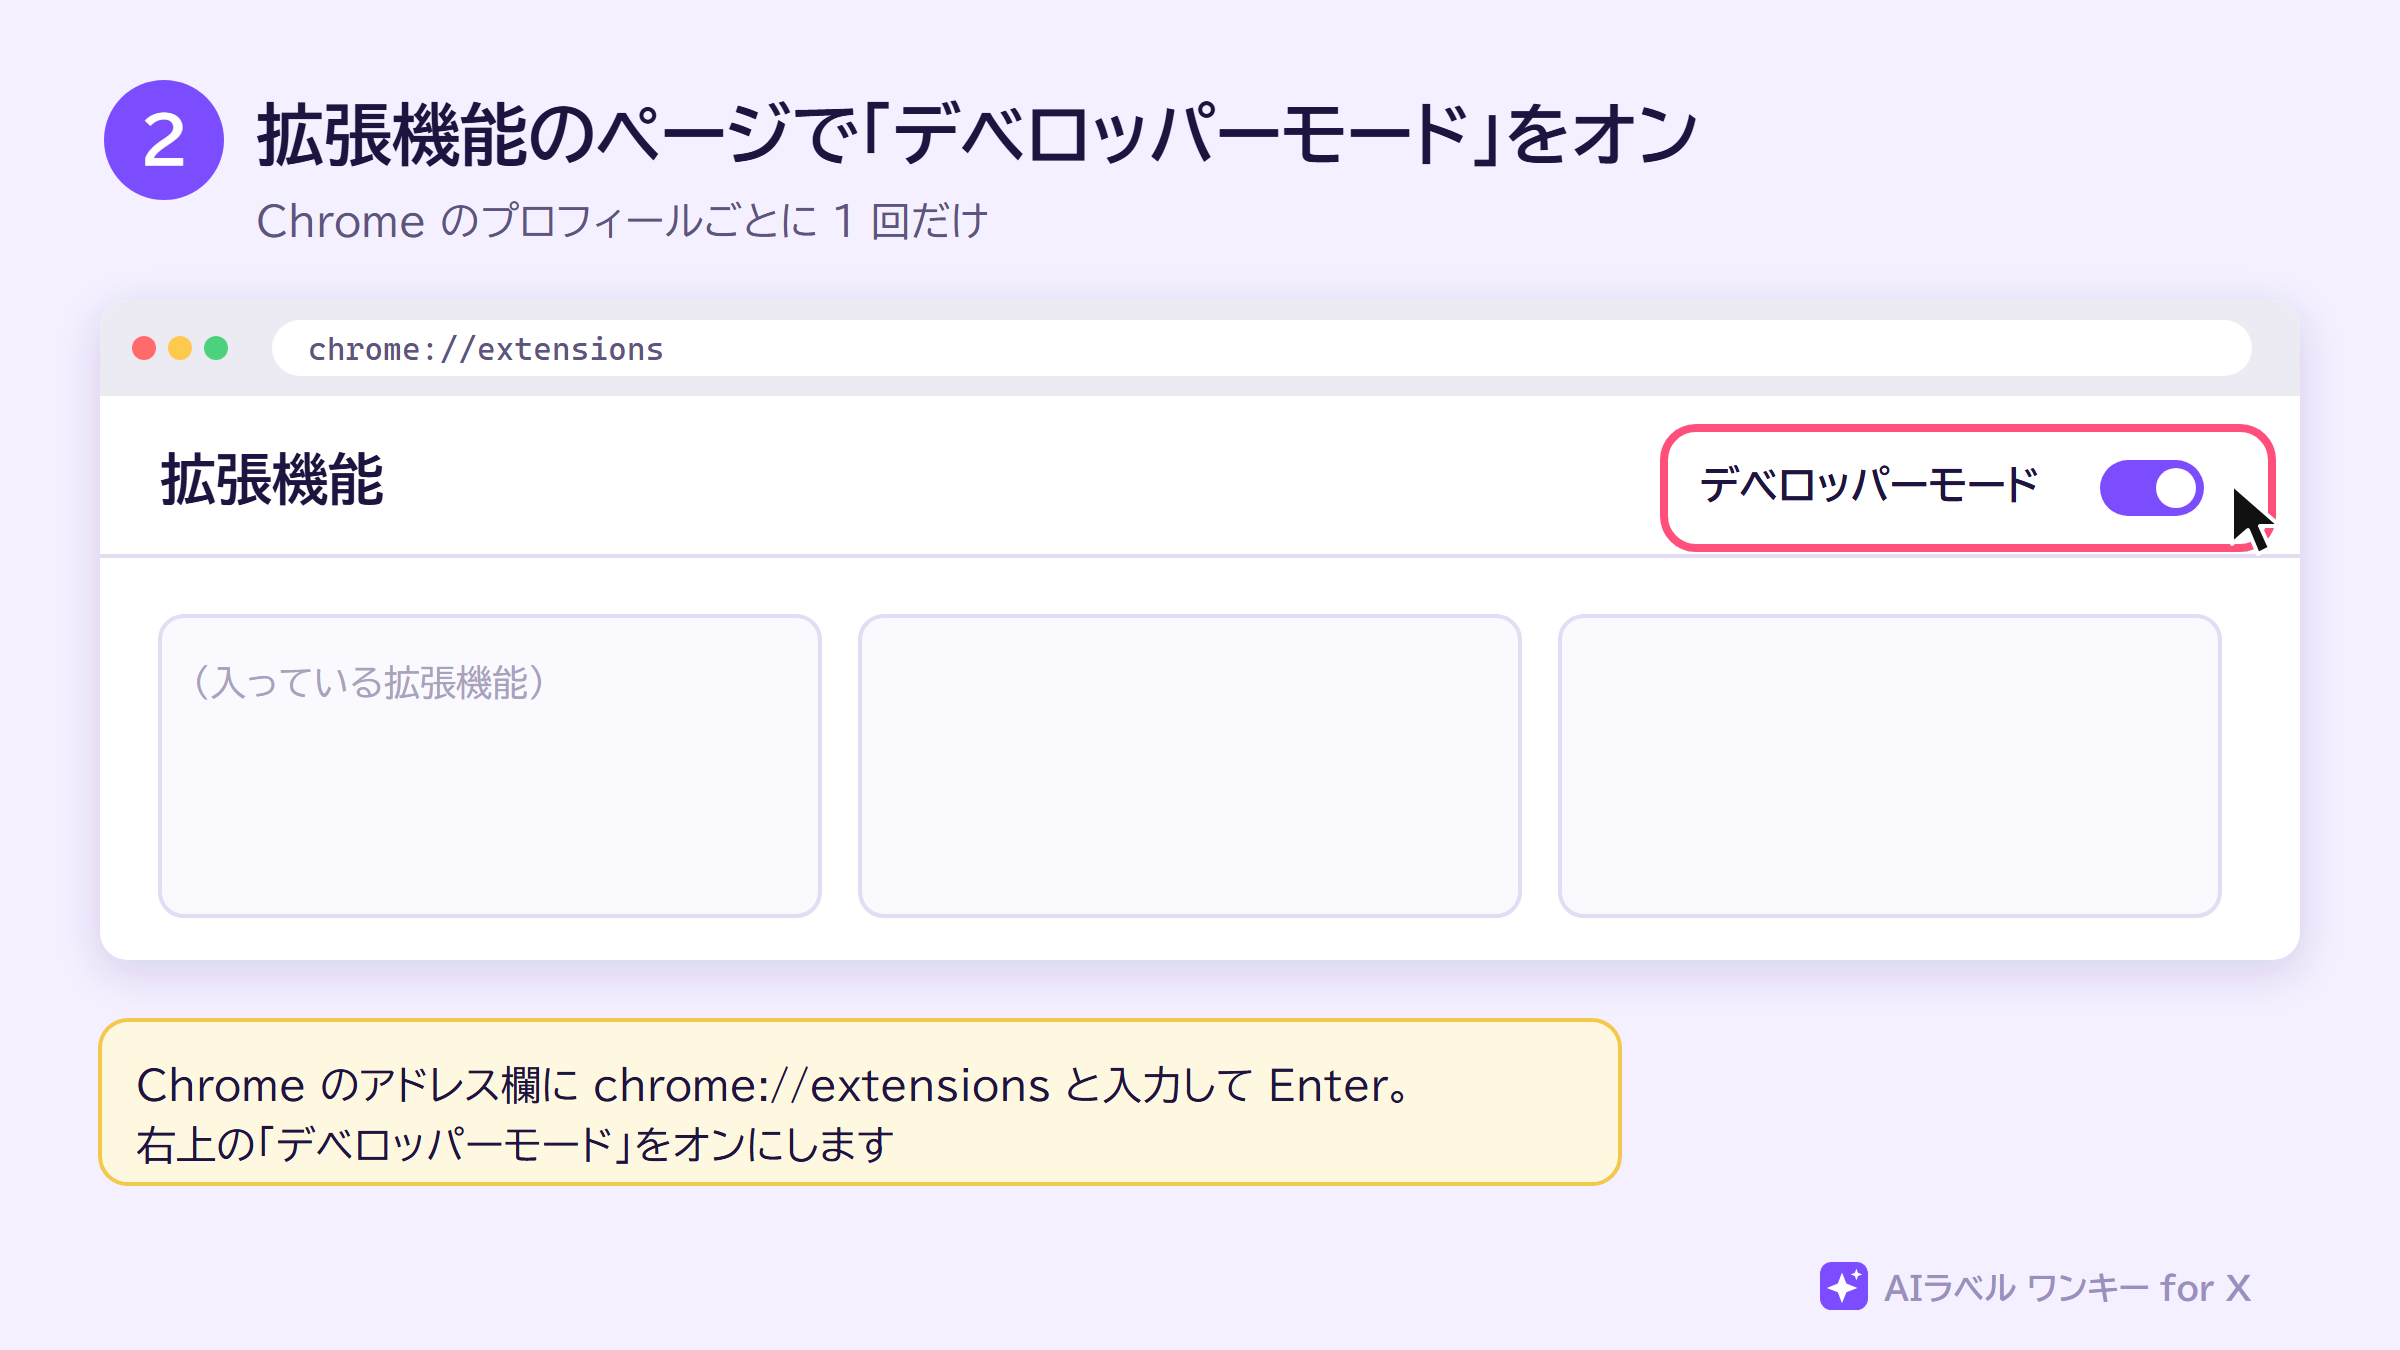
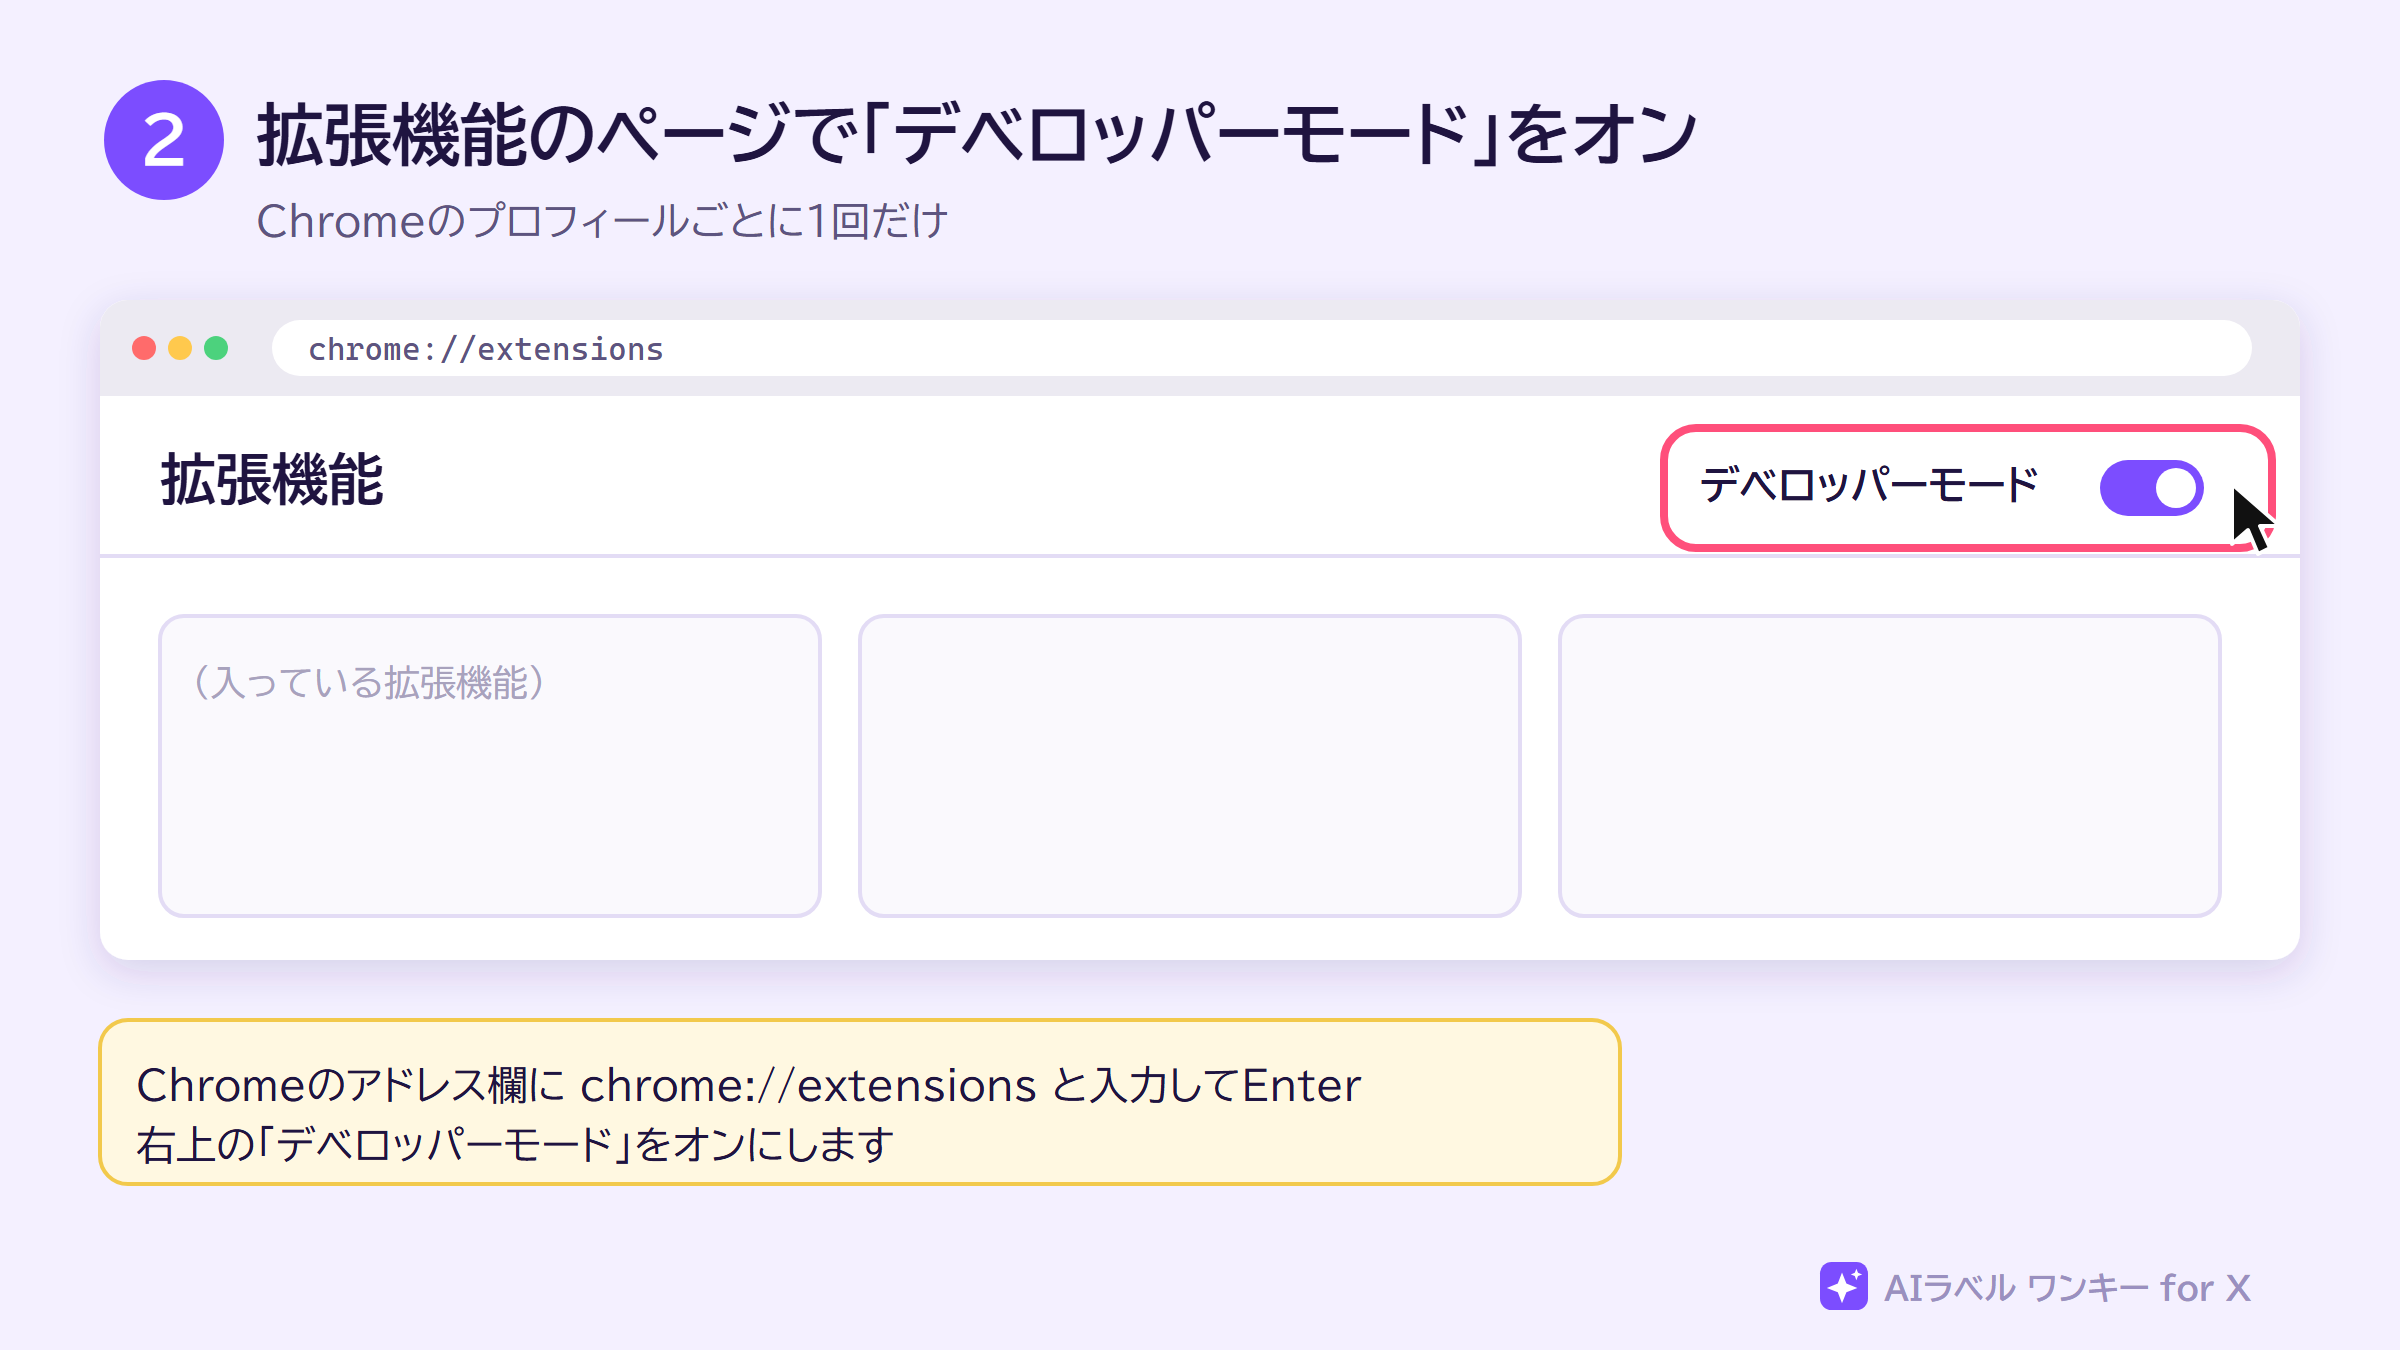
説明書のイラストの文から不自然な読点と余計な空きを除く

Changed region(s): [[0.125, 0.7778, 0.5625, 0.84], [0.1875, 0.1556, 0.4062, 0.1867]]

diff --git a/scripts/make_illustrations.py b/scripts/make_illustrations.py
@@ -175,7 +175,7 @@ def img_hero():
     # 左：いままで
     left = [rect(50, 150, 470, 440, r=22, extra='filter="url(#sh)"'),
             t(80, 200, "いままで", 26, SUB, 700),
-            t(80, 236, "毎回マウスで 3 回クリック", 20, SUB)]
+            t(80, 236, "毎回マウスで3回クリック", 20, SUB)]
     steps = ["旗マークを押す", "「AIで生成」をオン", "「完了」を押す"]
     for i, s in enumerate(steps):
         yy = 278 + i * 96
@@ -190,7 +190,7 @@ def img_hero():
     # 右：これから
     right = [rect(690, 150, 460, 440, r=22, stroke=ACCENT, sw=4, extra='filter="url(#sh)"'),
              t(720, 200, "これから", 26, ACCENT_DARK, 700),
-             t(720, 236, "キーを 1 回押すだけ", 20, SUB)]
+             t(720, 236, "キーを1回押すだけ", 20, SUB)]
     ks, _ = keys(724, 280, ["Ctrl", "Shift", "Y"], size=30)
     right.append(ks)
     right.append(f'<path d="M920,360 v40" stroke="{ACCENT}" stroke-width="6" stroke-linecap="round" marker-end="url(#ah)"/>')
@@ -199,7 +199,7 @@ def img_hero():
     right.append(t(860, 456, "AIで生成", 26, ACCENT_DARK, 700))
     right.append(toast(920, 506, "AIラベル ON ✓"))
     body = "".join(left) + mid + "".join(right)
-    return frame(None, "「AIで生成」ラベル付けが、キー 1 つに。", "X の投稿・返信で使える Chrome 拡張（無料・投稿や送信はしません）", body)
+    return frame(None, "「AIで生成」ラベルをキー1つで付ける", "Xの投稿・返信で使えるChrome拡張（無料・投稿や送信はしません）", body)
 
 
 def img_download():
@@ -216,8 +216,8 @@ def img_download():
     b += hl(80, 376, 520, 54) + cursor(470, 395)
     # 右：解凍
     r = [rect(700, 150, 450, 360, r=18, extra='filter="url(#sh)"'),
-         t(730, 196, "ダウンロードした zip を", 22, INK, 700),
-         t(730, 228, "右クリック →「すべて展開」", 22, INK, 700),
+         t(730, 196, "ダウンロードしたzipを", 22, INK, 700),
+         t(730, 228, "右クリック→「すべて展開」", 22, INK, 700),
          rect(740, 262, 64, 76, fill="#b6a3ff", r=8), t(772, 312, "zip", 20, "#fff", 700, "middle"),
          rect(830, 256, 280, 128, fill="#fff", r=10, stroke=LINE),
          t(850, 290, "開く", 19, SUB),
@@ -228,9 +228,9 @@ def img_download():
          f'<path d="M740,410 h30 l10,12 h46 v56 h-86 Z" fill="#ffd166"/>',
          t(842, 452, "ai-label-onekey-1.0.0", 20, INK, 700),
          t(842, 480, "このフォルダを次で使います", 17, SUB)]
-    body = b + "".join(r) + bubble(50, 530, 1100, ["「Source code」ではなく ai-label-onekey-○○.zip を選んでください。",
+    body = b + "".join(r) + bubble(50, 530, 1100, ["「Source code」ではなく ai-label-onekey-○○.zip を選びます",
                                                   "解凍したフォルダは消さずに置いておきます（消すと拡張も動かなくなります）"], 19)
-    return frame(1, "GitHub から zip をダウンロードして解凍", "Releases ページのいちばん新しい版を使います", body)
+    return frame(1, "GitHubからzipをダウンロードして解凍", "Releasesページのいちばん新しい版を使います", body)
 
 
 def ext_page_top(w):
@@ -247,9 +247,9 @@ def img_devmode():
     b = browser(50, 150, w, 330, "chrome://extensions", inner)
     # 中身は (50, 198) からずれて置かれる
     b += hl(50 + w - 312, 198 + 22, 292, 48) + cursor(50 + w - 34, 198 + 44)
-    body = b + bubble(50, 510, 760, ["Chrome のアドレス欄に chrome://extensions と入力して Enter。",
+    body = b + bubble(50, 510, 760, ["Chromeのアドレス欄に chrome://extensions と入力してEnter",
                                      "右上の「デベロッパーモード」をオンにします"], 20)
-    return frame(2, "拡張機能のページで「デベロッパーモード」をオン", "Chrome のプロフィールごとに 1 回だけ", body)
+    return frame(2, "拡張機能のページで「デベロッパーモード」をオン", "Chromeのプロフィールごとに1回だけ", body)
 
 
 def img_load():
@@ -277,11 +277,11 @@ def img_load():
            rect(930, 530, 166, 42, fill=X_BLUE, r=8), t(1013, 557, "フォルダーの選択", 17, "#fff", 700, "middle"),
            hl(930, 530, 166, 42, 8), cursor(1050, 546),
            arrow(485, 340, 600, 380, 30)]
-    return frame(3, "「読み込む」を押して、解凍したフォルダを選ぶ", "カードが出てオンになっていれば入りました", b + "".join(dlg))
+    return frame(3, "「読み込む」を押して解凍したフォルダを選ぶ", "カードが出てオンになっていれば入りました", b + "".join(dlg))
 
 
 def img_ready():
-    inner = (t(30, 60, "X のタブ", 24, INK, 700)
+    inner = (t(30, 60, "Xのタブ", 24, INK, 700)
              + rect(30, 90, 520, 160, fill="#f7f9f9", r=12, stroke=LINE)
              + t(56, 180, "（ホーム画面）", 20, "#a8a2bd"))
     b = browser(50, 150, 580, 320, "x.com/home", inner)
@@ -297,9 +297,9 @@ def img_ready():
     re.append(ks)
     re.append(t(790, 374, "キーを押す", 20, INK))
     body = b + "".join(re) + bubble(50, 500, 1100, [
-        "拡張を入れる前から開いていた X のタブは、再読み込みするまで動きません。",
-        "複数の Chrome プロフィールで X を使う人は、プロフィールごとに手順 2〜3 をやってください"], 19)
-    return frame(4, "開いている X のタブを再読み込み", "これで準備完了です", body)
+        "拡張を入れる前から開いていたXのタブは再読み込みするまで動きません",
+        "Chromeのプロフィールを分けている人はXを使うプロフィールで手順2〜3をやってください"], 19)
+    return frame(4, "開いているXのタブを再読み込み", "これで準備完了です", body)
 
 
 def img_use():
@@ -313,12 +313,12 @@ def img_use():
     body.append(bubble(760, 330, 390, [
         "旗マーク → AIで生成 → 完了",
         "を自動で進めます",
-        "すでに ON なら何もしません"], 19))
+        "すでにONなら何もしません"], 19))
     body.append(rect(70, 520, 1080, 80, fill="#fff", r=16, stroke=LINE))
     k2, _ = keys(96, 534, ["Ctrl", "Enter"], size=22)
     body.append(k2)
-    body.append(t(350, 568, "カーソルは文の最後に戻るので、そのまま送信できます（この拡張は送信しません）", 19, INK))
-    return frame(5, "書いて、キーを押すだけ", "投稿画面・返信画面・投稿ページの返信欄で使えます", "".join(body))
+    body.append(t(350, 568, "カーソルは文の最後に戻るのでそのまま送信できます（この拡張は送信しません）", 19, INK))
+    return frame(5, "書いてキーを押すだけ", "投稿画面・返信画面・投稿ページの返信欄で使えます", "".join(body))
 
 
 def img_settings():
@@ -343,8 +343,8 @@ def img_settings():
              t(820, 390, "使いたいキーの組み合わせを押してください", 18, SUB, 400, "middle")]
     ks, _ = keys(650, 414, ["Ctrl", "Alt", "L"], size=28)
     right.append(ks)
-    body = "".join(left) + "".join(right) + t(50, 600, "Ctrl か Alt と組み合わせます（F1〜F12 は単独でも OK）。Chrome が使うキーは選べず、よく使うキーは注意が出ます", 19, SUB)
-    return frame(6, "キーは好きなものに変えられる", "変えたキーは、開いている X のタブにもすぐ反映", body)
+    body = "".join(left) + "".join(right) + t(50, 600, "CtrlかAltと組み合わせます（F1〜F12は単独でもOK）。Chromeが先に使うキーは選べません", 19, SUB)
+    return frame(6, "キーは好きなものに変えられる", "変えたキーは開いているXのタブにもすぐ反映されます", body)
 
 
 def mouse(cx, cy):
@@ -361,17 +361,17 @@ def mouse(cx, cy):
 def img_mouse():
     body = [mouse(260, 360)]
     body.append(rect(450, 230, 700, 120, r=18, stroke=HL, sw=3, extra='filter="url(#sh)"'))
-    body.append(t(480, 272, "ボタン A ＝ ラベルを付ける", 22, INK, 700))
+    body.append(t(480, 272, "ボタンA：ラベルを付ける", 22, INK, 700))
     ks, _ = keys(480, 290, ["Ctrl", "Shift", "Y"], size=22)
     body.append(ks)
     body.append(rect(450, 380, 700, 120, r=18, stroke=ACCENT, sw=3, extra='filter="url(#sh)"'))
-    body.append(t(480, 422, "ボタン B ＝ 送信する（お好みで）", 22, INK, 700))
+    body.append(t(480, 422, "ボタンB：送信する（お好みで）", 22, INK, 700))
     k2, _ = keys(480, 440, ["Ctrl", "Enter"], size=22)
     body.append(k2)
     body.append(t(830, 478, "押した瞬間に送信", 17, HL, 700))
-    body.append(bubble(50, 540, 1100, ["マウスの設定ソフト（Logi Options+ など）の「キーストロークの割り当て」で、ボタンにキーを入れます。",
-                                      "Chrome だけで効くよう「アプリ別設定」にすると安心です"], 19))
-    return frame(7, "マウスのボタン 1 つで使う", "ラベル → 送信 を親指だけで", "".join(body))
+    body.append(bubble(50, 540, 1100, ["マウスの設定ソフト（Logi Options+ など）の「キーストロークの割り当て」でボタンにキーを入れます",
+                                      "Chromeだけで効くよう「アプリ別設定」にすると安心です"], 19))
+    return frame(7, "マウスのボタン1つで使う", "ラベル→送信を親指だけで", "".join(body))
 
 
 def flow_box(x, y, w, h, lines, fill="#fff", stroke=LINE, size=19, bold=False):
@@ -383,17 +383,17 @@ def flow_box(x, y, w, h, lines, fill="#fff", stroke=LINE, size=19, bold=False):
 
 
 def img_trouble():
-    b = [flow_box(420, 140, 360, 64, ["キーを押すと、画面の下に何か出る？"], fill="#efe9ff", stroke=ACCENT, bold=True),
+    b = [flow_box(420, 140, 360, 64, ["キーを押すと画面の下に何か出る？"], fill="#efe9ff", stroke=ACCENT, bold=True),
          arrow(520, 206, 270, 254, 0, ACCENT, 4), arrow(680, 206, 900, 254, 0, ACCENT, 4),
          t(150, 238, "赤い字が出る", 20, HL, 700), t(920, 238, "何も出ない", 20, SUB, 700),
-         flow_box(50, 262, 460, 210, ["X の画面の作りが変わった可能性", "", "・投稿欄が開いているか確かめる", "・GitHub の Issues で知らせてください",
+         flow_box(50, 262, 460, 210, ["Xの画面の作りが変わった可能性", "", "・投稿欄が開いているか確かめる", "・GitHubのIssuesで知らせてください",
                                       "・新しい版が出たら入れ直す"], size=18),
-         flow_box(620, 262, 530, 64, ["① X のタブを再読み込みした？"]),
-         flow_box(620, 342, 530, 64, ["② いま使っている Chrome プロフィールに入れた？"]),
+         flow_box(620, 262, 530, 64, ["① Xのタブを再読み込みした？"]),
+         flow_box(620, 342, 530, 64, ["② いま使っているChromeのプロフィールに入れた？"]),
          flow_box(620, 422, 530, 64, ["③ ツールバーの拡張アイコンを押すと動く？"]),
          arrow(760, 490, 700, 532, 0, ACCENT, 4), arrow(1010, 490, 1070, 532, 0, ACCENT, 4),
-         flow_box(560, 540, 280, 76, ["動く → キーが届いていない", "（マウス設定・他のソフト）"], size=16, fill="#fff8e1", stroke="#f2c94c"),
-         flow_box(870, 540, 280, 76, ["動かない → 拡張を更新して", "X を再読み込み"], size=16, fill="#fff8e1", stroke="#f2c94c")]
+         flow_box(560, 540, 280, 76, ["動く→キーが届いていない", "（マウス設定・他のソフト）"], size=16, fill="#fff8e1", stroke="#f2c94c"),
+         flow_box(870, 540, 280, 76, ["動かない→拡張を更新して", "Xを再読み込み"], size=16, fill="#fff8e1", stroke="#f2c94c")]
     return frame(None, "うまく動かないときは", None, "".join(b))
 
 
